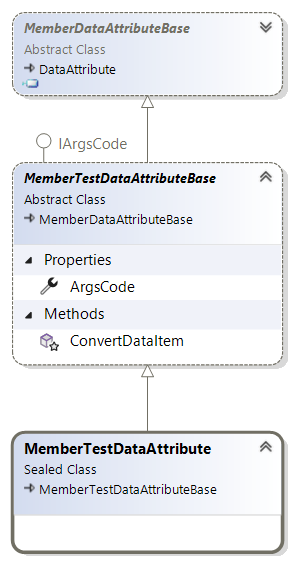
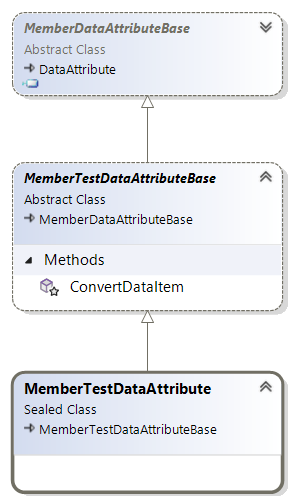
parameterless GetTestDataRows

diff --git a/DataRowHolders/DataRowHolder.cs b/DataRowHolders/DataRowHolder.cs
@@ -49,7 +49,7 @@ public abstract class DataRowHolder<TRow>(IDataStrategy dataStrategy)
     }
     
     public abstract IDataRowHolder<TRow> GetDataRowHolder(IDataStrategy dataStrategy);
-    public abstract IEnumerable<ITestDataRow>? GetTestDataRows(ArgsCode? argsCode);
+    public abstract IEnumerable<ITestDataRow>? GetTestDataRows();
 }
 
 public abstract class DataRowHolder<TRow, TTestData>
@@ -92,9 +92,9 @@ where TTestData : notnull, ITestData
     public override sealed Type TestDataType => typeof(TTestData);
     public int Count => dataRows.Count;
 
-    public override sealed IEnumerable<ITestDataRow>? GetTestDataRows(ArgsCode? argsCode)
+    public override sealed IEnumerable<ITestDataRow>? GetTestDataRows()
     {
-        var dataStrategy = GetDataStrategy(argsCode);
+        var dataStrategy = GetDataStrategy(ArgsCode.Instance);
 
         return GetDataRowHolder(dataStrategy)
             as IEnumerable<ITestDataRow>;

diff --git a/DynamicDataSources/DynamicDataSourceBase.cs b/DynamicDataSources/DynamicDataSourceBase.cs
@@ -1,8 +1,6 @@
 // SPDX-License-Identifier: MIT
 // Copyright (c) 2025. Csaba Dudas (CsabaDu)
 
-using CsabaDu.DynamicTestData.DataStrategyTypes.Interfaces;
-
 namespace CsabaDu.DynamicTestData.DynamicDataSources;
 
 /// <summary>
